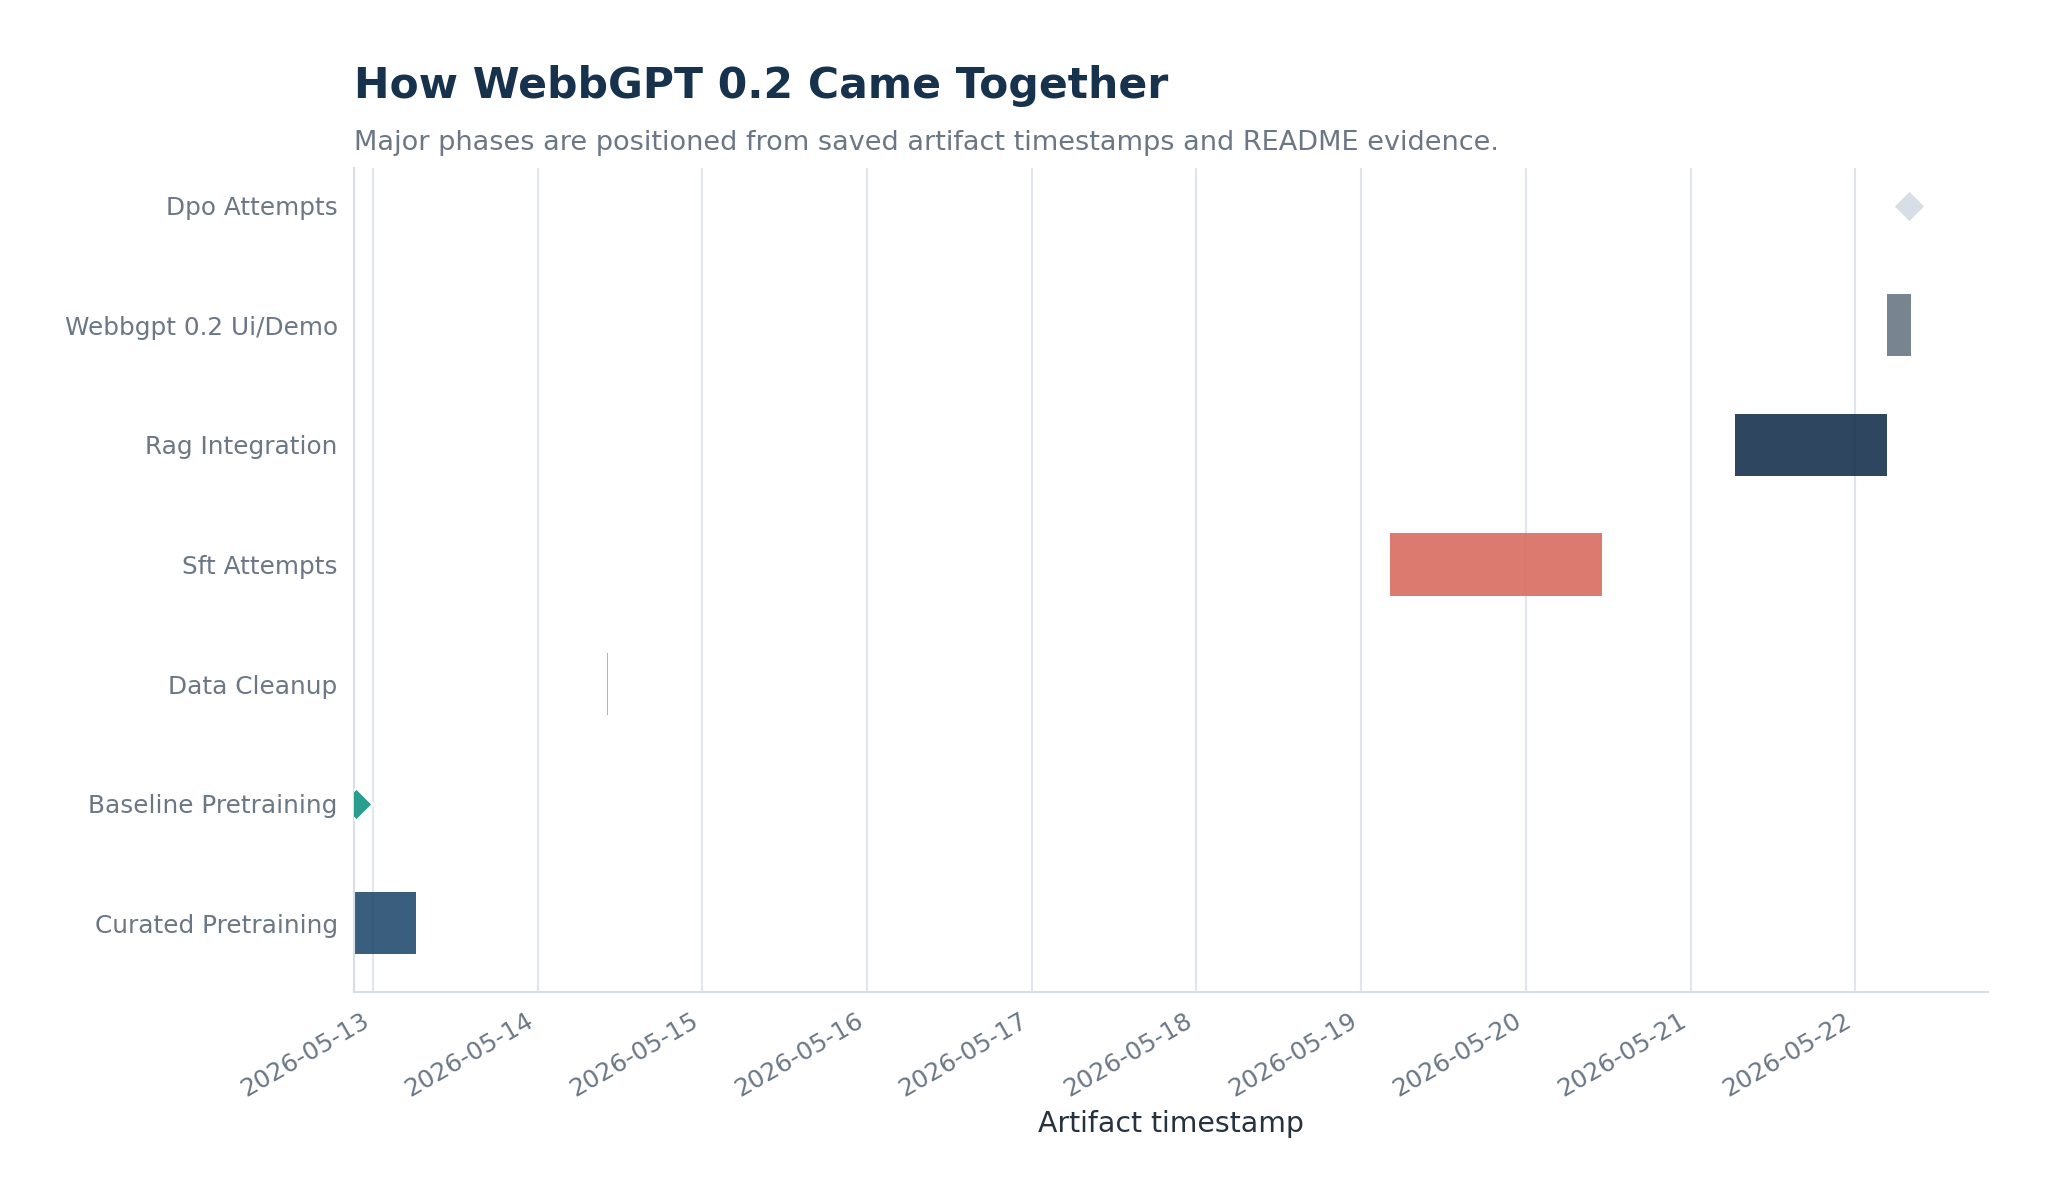
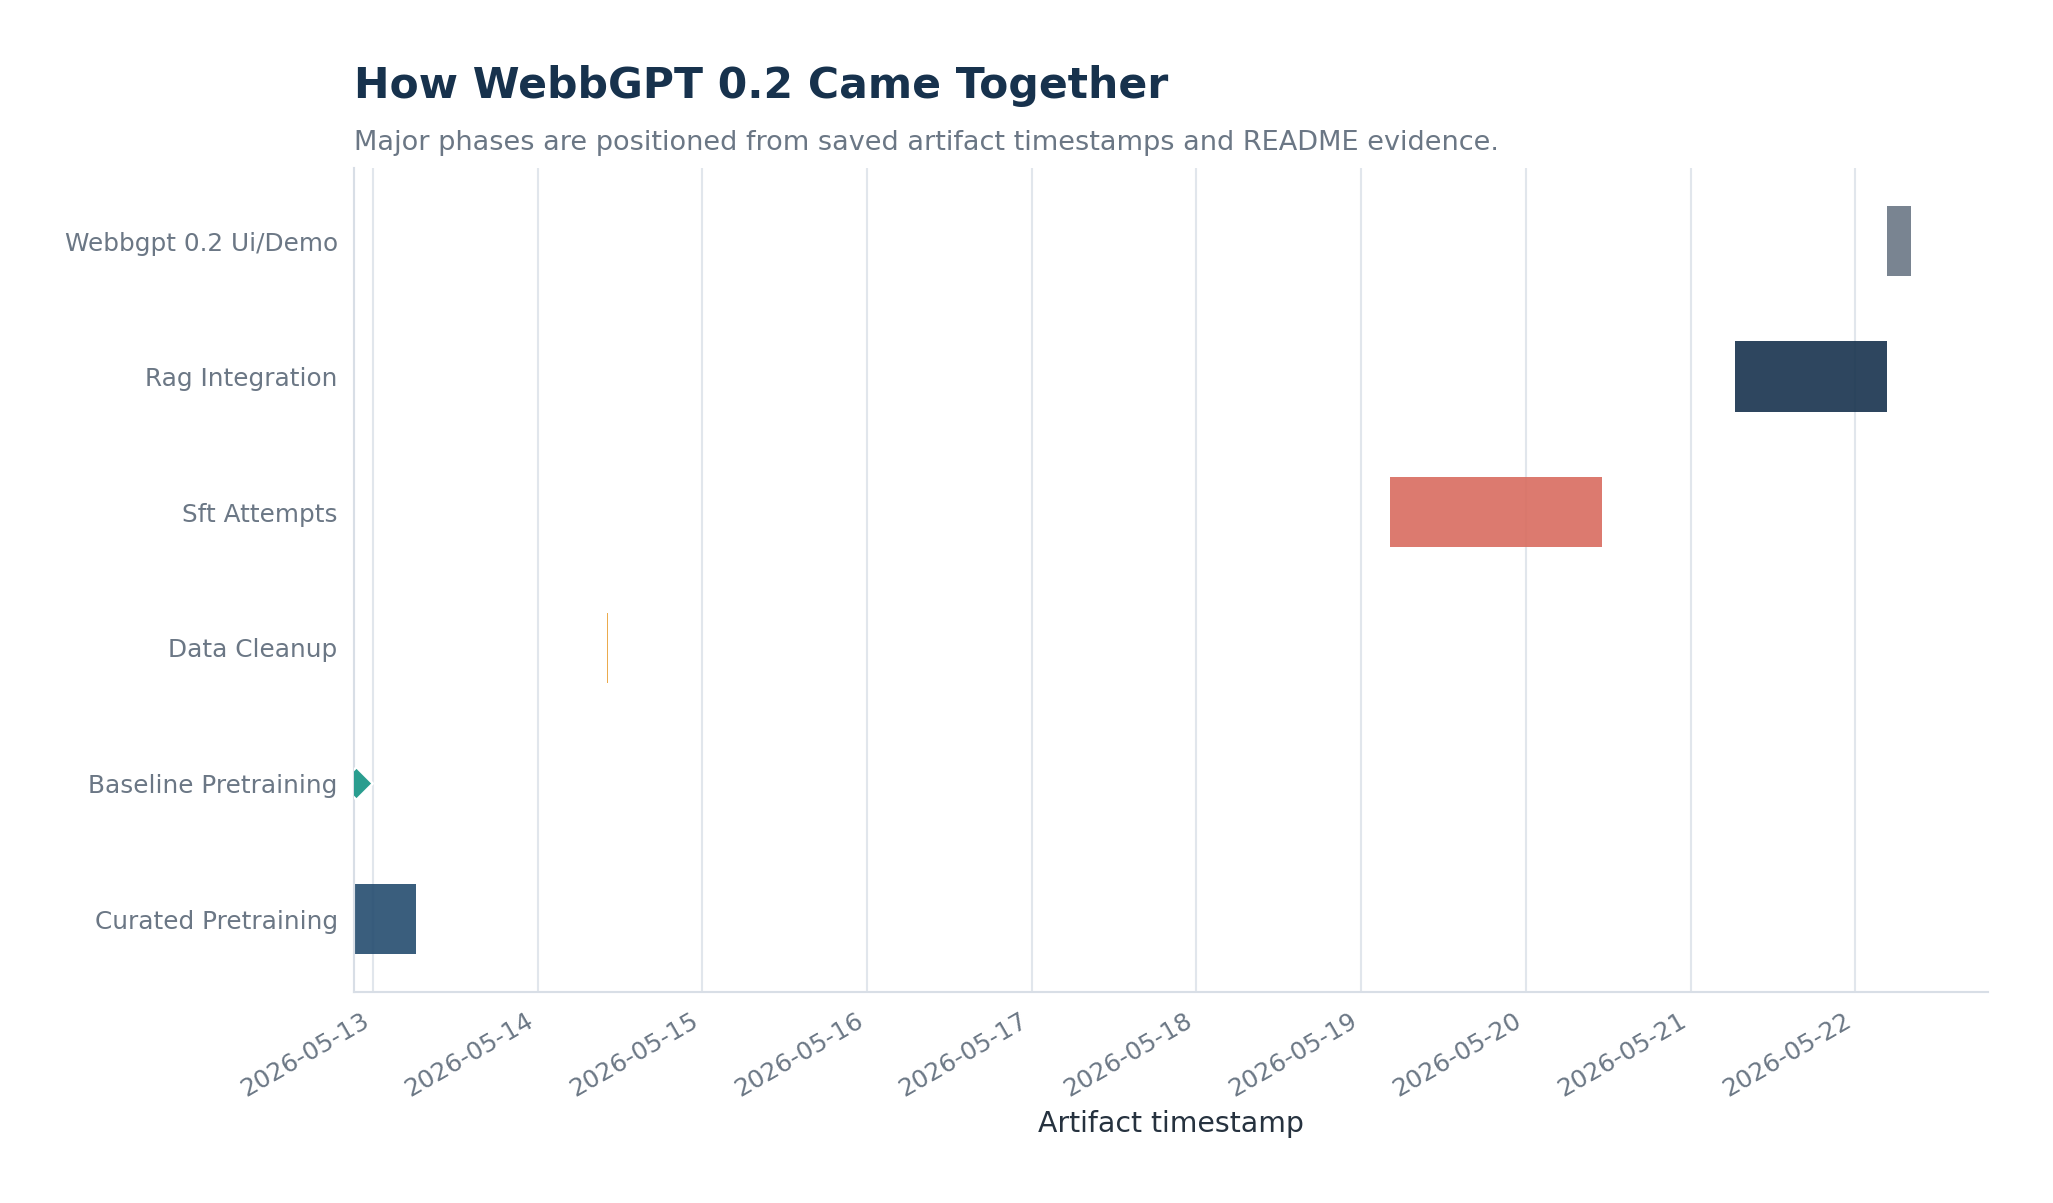
Add documentation

diff --git a/README.md b/README.md
@@ -1,19 +1,20 @@
 # WebbGPT
 
-WebbGPT is a Python CLI for training a small decoder-only model, preparing posttraining data, grounding against Webb data, and serving a local assistant.
+WebbGPT is a Python CLI and local demo stack for training a small decoder-only model, preparing posttraining data, grounding responses against local Webb-related source material, serving a local assistant, and generating project documentation visuals.
 
 The current local development path is `local-mvp`.
 
 ## Current Final Direction
 
-The active path is:
+The active local-MVP path is:
 
 1. Curated base pretraining.
-2. Optional small continued pretraining from reviewed source material.
-3. SFT with RAG/context grounding.
-4. Website demo.
+2. Use the final pretrained checkpoint as the website default.
+3. Add local lexical RAG for source-supported demo behavior.
+4. Keep continued pretraining and SFT-RAG as explicit optional experiments that must beat the pretrained baseline before promotion.
+5. Generate documentation graphics from saved artifacts for the final presentation/poster.
 
-DPO is archived as legacy because the small local-MVP DPO run worsened real sample behavior and is not part of the current final project.
+DPO is disabled legacy work. It is not part of the active final-demo path and should not be launched for the current project.
 
 ## Current Local-MVP
 
@@ -28,6 +29,16 @@ DPO is archived as legacy because the small local-MVP DPO run worsened real samp
 - Former stale corpora now live under `data/source_material/` and must be filtered or chunked with provenance before future use.
 
 The final local-MVP experiment before 3B planning is the lower-LR curated recipe in `sample-configs/train-local-mvp.json`.
+
+Current checked-in local-MVP artifact state:
+
+- Best pretrained checkpoint: `artifacts/runs/local-mvp/checkpoints/pretrain/best-pretrain`
+- Prepared pretraining data: 157,442 sequences and 63,590,914 tokens from `artifacts/runs/local-mvp/prepared/pretrain.json`
+- Best final-selection validation loss: 5.18789005279541
+- Best final-selection perplexity: 179.09028296542547
+- Pretraining stage quality status: `weak_raw_lm`
+- Demo default model mode: `pretrained`
+- RAG index files: `data/rag/webbgpt_chunks.jsonl`, `data/rag/webbgpt_index.json`, and `data/rag/webbgpt_sources_manifest.json`
 
 Active local-MVP configs:
 
@@ -104,11 +115,29 @@ webbgpt train-pretrain \
 
 `webbgpt main --profile local-mvp` is also pretrain-only now. It builds/reuses tokenizer assets, materializes the curated pretrain and validation manifests, then runs base pretraining. It does not silently run continued pretraining, SFT, or legacy DPO.
 
+## Documentation Graphics
+
+The project can regenerate presentation/poster graphics from local artifacts without starting training or changing model checkpoints:
+
+```bash
+python3.12 tools/build_documentation_graphs.py
+```
+
+The generated files live under `documentation/`. The current set contains 23 requested visuals plus a generated contact sheet:
+
+- `documentation/00_graph_index.png`
+- `documentation/01_pretrain_loss_curve.png` through `documentation/18_demo_readiness_scorecard.png`
+- `documentation/19_training_loss_animation.gif` through `documentation/23_data_filtering_funnel_animation.gif`
+- `documentation/visual_manifest.json`
+- `documentation/README.md`
+
+The generator uses saved pretraining history, prepared-data manifests, RAG chunks/indexes, saved RAG regression outputs, serving verification, static UI/server evidence, and deterministic heuristics where direct measurements are unavailable. It does not make network calls, start training, or modify checkpoints.
+
 ## Posttraining And Grounding
 
 The current 22M local-MVP base is still a raw LM experiment. Continued pretraining and SFT are optional improvement paths and should be evaluated against the pretrained checkpoint before changing the website default.
 
-DPO was tested as a small plumbing/stretch experiment. It moved tiny preference metrics but worsened real samples, so the DPO configs, data, checkpoint artifacts, and full trainer implementation are archived under `junk/dpo-legacy/`.
+DPO was tested as a small plumbing/stretch experiment. It moved tiny preference metrics but worsened real samples, so `src/cli.py train-dpo` is retained only as a disabled legacy command.
 
 ### Continued Pretraining
 
@@ -230,13 +259,13 @@ webbgpt webb-sync \
 
 ## Local Demo Server
 
-### Thursday Demo Default
+### Current Demo Default
 
-The Thursday demo default is the final 22M pretrained local-MVP checkpoint:
+The current demo default is the final 22M pretrained local-MVP checkpoint:
 
 `artifacts/runs/local-mvp/checkpoints/pretrain/best-pretrain`
 
-SFT-small, SFT-v2, SFT-v3, and DPO-small were run as local posttraining/plumbing experiments, but they are not the website default. SFT-v3 completed and reduced validation loss, but the final demo prompt comparison stayed mixed/worse than pretrained: prompt retention and grounded-context behavior did not improve enough to justify switching. DPO-small amplified the bad SFT behavior and is archived. Keep `WEBBGPT_MODEL_MODE=pretrained` unless a later checkpoint clearly beats pretrained on behavior samples.
+SFT-small, SFT-v2, and SFT-v3 were run as local posttraining/plumbing experiments, but they are not the website default. SFT-v3 completed and reduced validation loss, but the final demo prompt comparison stayed mixed/worse than pretrained: prompt retention and grounded-context behavior did not improve enough to justify switching. DPO is disabled legacy work and is not an active candidate. Keep `WEBBGPT_MODEL_MODE=pretrained` unless a later checkpoint clearly beats pretrained on behavior samples.
 
 Start the local-MVP demo server with the pretrained 22M checkpoint:
 
@@ -362,7 +391,5 @@ python3.12 -m pytest src/tests/test_cli_profiles.py
 - `data/webb/`: Webb grounding fixtures and source packs
 - `src/`: CLI, model, training, eval, grounding, and serving code
 - `tools/`: active reporting and audit tools
+- `documentation/`: generated project graphics, README, and visual manifest
 - `artifacts/`: generated tokenizers, manifests, checkpoints, reports, and exports
-- `junk/`: preserved legacy files moved out of the active path
-
-See `docs/CURRENT_LOCAL_MVP.md` for the current local-MVP baseline and rationale.

diff --git a/documentation/README.md b/documentation/README.md
@@ -18,7 +18,7 @@ Optional flags: `--output-dir documentation`, `--no-gifs`, `--verbose`, `--keep-
 - `01_pretrain_loss_curve.png` - generated. Grounding: direct. Sources: artifacts/runs/local-mvp/checkpoints/pretrain/eval_history.jsonl. Caveats: None.
 - `02_pretrain_perplexity_curve.png` - generated. Grounding: direct. Sources: artifacts/runs/local-mvp/checkpoints/pretrain/eval_history.jsonl. Caveats: Values above 1000 are clipped for readability.
 - `03_loss_and_perplexity_dual_axis.png` - generated. Grounding: direct. Sources: artifacts/runs/local-mvp/checkpoints/pretrain/eval_history.jsonl. Caveats: Perplexity is clipped at 1000 for readability.
-- `04_experiment_timeline_chart.png` - generated. Grounding: derived. Sources: README.md, artifacts/runs/local-mvp/checkpoints/pretrain/stage_summary.json, artifacts/runs/local-mvp/checkpoints/sanity-probe/stage_summary.json, artifacts/runs/local-mvp/checkpoints/sft-v3/stage_summary.json, artifacts/runs/local-mvp/manual_demos/chat_transcript.jsonl, artifacts/runs/local-mvp/prepare_pretrain.log, artifacts/runs/local-mvp/rag_reliability_regression.json, artifacts/runs/local-mvp/rag_serving_verification_after_source_expansion.json, artifacts/runs/local-mvp/sanity_probe.log, artifacts/runs/local-mvp/sft0_plumbing.log, artifacts/runs/scale-3b-smoke-100m/reports/data_audit/quality_summary.json, artifacts/runs/scale-3b-smoke-100m/reports/data_audit_cleanup/quality_summary.json. Caveats: README records DPO as archived legacy; no active DPO artifact was present. Phase dates are derived from artifact file modification times or README evidence.
+- `04_experiment_timeline_chart.png` - generated. Grounding: derived. Sources: artifacts/runs/local-mvp/checkpoints/pretrain/stage_summary.json, artifacts/runs/local-mvp/checkpoints/sanity-probe/stage_summary.json, artifacts/runs/local-mvp/checkpoints/sft-v3/stage_summary.json, artifacts/runs/local-mvp/manual_demos/chat_transcript.jsonl, artifacts/runs/local-mvp/prepare_pretrain.log, artifacts/runs/local-mvp/rag_reliability_regression.json, artifacts/runs/local-mvp/rag_serving_verification_after_source_expansion.json, artifacts/runs/local-mvp/sanity_probe.log, artifacts/runs/local-mvp/sft0_plumbing.log, artifacts/runs/scale-3b-smoke-100m/reports/data_audit/quality_summary.json, artifacts/runs/scale-3b-smoke-100m/reports/data_audit_cleanup/quality_summary.json. Caveats: Phase dates are derived from artifact file modification times or README evidence.
 - `05_training_data_source_mix.png` - generated. Grounding: direct. Sources: artifacts/runs/local-mvp/prepared/pretrain.json. Caveats: None.
 - `06_data_filtering_funnel.png` - generated. Grounding: direct. Sources: artifacts/runs/local-mvp/prepared/pretrain.json. Caveats: The funnel uses direct artifact counts with mixed units, so the x-axis is logarithmic.
 - `07_data_rejection_reasons.png` - generated. Grounding: direct. Sources: artifacts/runs/local-mvp/prepared/pretrain.json, artifacts/runs/scale-3b-smoke-100m/reports/data_audit/quality_summary.json, artifacts/runs/scale-3b-smoke-100m/reports/data_audit_cleanup/quality_summary.json. Caveats: None.